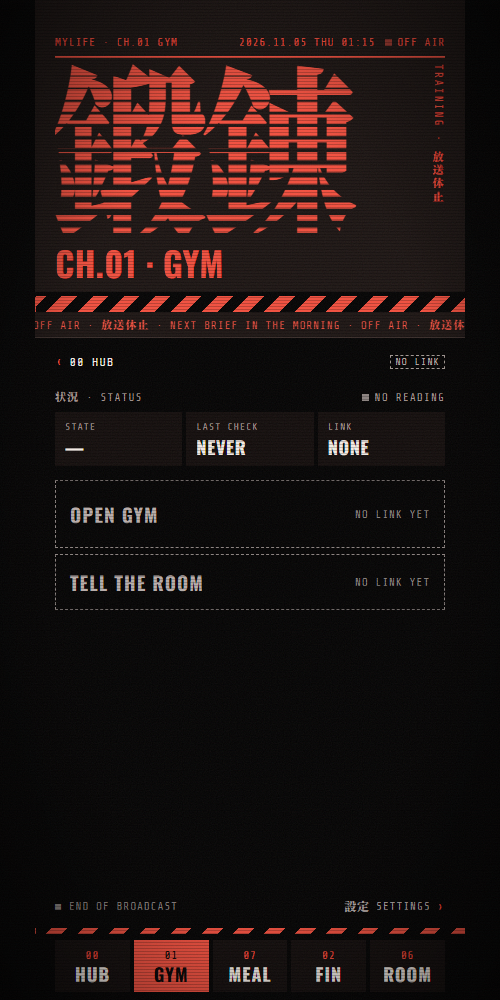
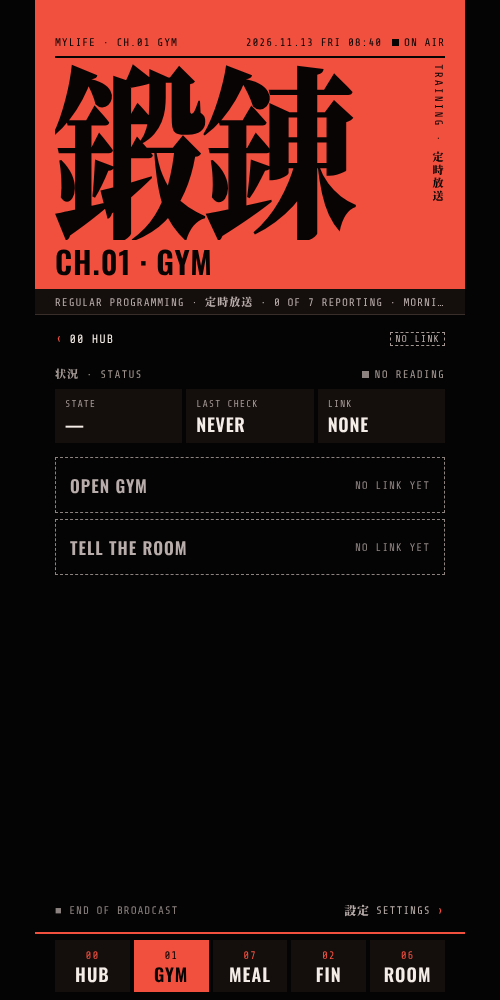
Calm Broadcast: MyLife in the Jellyfin r4 look
Keeps the red masthead and big kanji; drops scanline cuts, glitch, flicker,
CRT overlay, marching hazards and the scrolling ticker. Headings use
Bahnschrift 600 (Oswald 600 fallback), smaller buttons, quiet hover/press.
Settings loses the Effects switch since effects are retired.

Claude-Session: https://claude.ai/code/session_018cPyDwmiQEjk6EhzVvTr2t

diff --git a/mylife.css b/mylife.css
@@ -396,3 +396,52 @@ html.fx-off .v3 .ticker .track{animation:none}
 .v3 .pcard .pname{font-weight:700;font-size:19px;line-height:1.15;letter-spacing:.06em;text-transform:uppercase;min-width:0}
 .v3 .pcard .pk{font-size:12px;line-height:1;color:var(--text-3);white-space:nowrap}
 .v3 .pcard .pline{grid-column:2 / 4;margin:0;font-family:var(--f-display);font-weight:500;font-size:15px;line-height:1.4;letter-spacing:.01em;color:var(--text-2)}
+
+/* Calm Broadcast (2026-11-13): MyLife in the accepted Jellyfin r4 look. The red masthead and big kanji stay;
+   scanline slices, glitch, flicker, CRT overlay, marching hazards, the scrolling ticker and blinking dots go.
+   Headings use Bahnschrift 600 semi-condensed (Windows), falling back to Oswald 600 elsewhere. Hazard stripes
+   are kept for nothing on the hub (Jellyfin keeps them only on delete buttons). Appended only: delete this block
+   to get the v3 final look back. */
+:root{--f-head:Bahnschrift,'Oswald','Arial Narrow','Helvetica Neue',Arial,sans-serif}
+body{font-stretch:semi-condensed}
+
+/* Header: clean kanji (no scanline cuts), the hazard band under it becomes nothing; one still rule in the bar. */
+.v3 .mast .scan{display:none}
+.v3 .mast h1{font-weight:600;font-size:31px;letter-spacing:.03em}
+.mast + .hazard{display:none}
+.hazard.thin{height:2px;background:var(--accent);animation:none !important}
+
+/* Nothing moves or blinks: still on-air dot, still cursor, static ticker showing one pass of its words. */
+.v3 .mast .air .dot,.v3 .directive .blk{animation:none !important;opacity:1}
+.v3[data-mode="standby"] .mast .air .dot{opacity:.6}
+.v3 .ticker .track{display:block;flex:1 1 auto;animation:none !important;transform:none;min-width:0;padding:0 20px}
+.v3 .ticker .seg + .seg{display:none}
+.v3 .ticker .seg{display:block;white-space:nowrap;overflow:hidden;text-overflow:ellipsis}
+.v3 .mast .kanji::before,.v3 .mast .kanji::after{content:none}
+.screen.v3,.v3 .mast,.v3 .hazard{animation:none !important}
+.crt,.slice{display:none !important}
+
+/* Lighter headings: 600 instead of 700 everywhere the heading face is used. */
+.mast .app,.directive .l1,.directive .hero,.directive .done,.row .name,.tile .tname,.grow .gname,.readout .big,
+.readout .ident .gname,.btn,.pick .pname,.toggle-row .tname,.bar a .s,.v3 .chrow .gname,.v3 .cell .cv,.v3 .gdir .gt,
+.v3 .act .an,.v3 .dash .dn,.v3 .swatch .sn,.v3 .pcard .pname{font-weight:600}
+
+/* Jellyfin-size buttons and actions (r4: 44px+, 15-17px), not 68px slabs. */
+.btn{min-height:48px;font-size:17px}
+.btn.secondary{border-width:1px}
+.v3 .act{min-height:52px}
+.v3 .act .an{font-size:21px}
+.v3 .dash.big{min-height:56px}
+.v3 .dash .dn{font-size:17px}
+
+/* Quiet hover and press: no 10px edge growth, no scanline texture; the press is a darker row. */
+@media (hover:hover){
+  .v3 .tile:hover,.v3 a.row:hover,.v3 .chrow:hover{border-left-width:4px;padding-left:10px}
+  .v3 a.row:hover,.v3 .chrow:hover{padding-left:12px}
+  .v3 .tile.nolink:hover,.v3 .chrow.nolink:hover{border-left-width:1px;padding-left:13px}
+  .v3 .tile:hover .tname,.v3 a.row:hover .name,.v3 .chrow:hover .gname{color:var(--accent)}
+}
+.v3 .tile:active,.v3 a.row:active,.v3 .chrow:active{background-color:var(--surface-2);background-image:none;color:var(--text);border-left-color:var(--accent)}
+.v3 .tile:active *,.v3 a.row:active *,.v3 .chrow:active *{color:inherit !important}
+.v3 .tile:active .num,.v3 a.row:active .chev,.v3 .chrow:active .num,.v3 .chrow:active .chev{color:var(--accent) !important}
+.v3 .act:active{background-image:none;filter:brightness(.92)}

diff --git a/mylife.js b/mylife.js
@@ -64,8 +64,9 @@
   }
   function motionSetting() { return store('mylife.motion') === 'reduced'; }
   function reducedMotion() { return motionSetting() || deviceReduced(); }
-  /* v3 look: Effects (CRT overlay, kanji glitch, Slice, header pulse, hazard march, flicker) on unless set off. */
-  function effectsOn() { return store('mylife.effects') !== 'off'; }
+  /* Calm Broadcast (11-13): the v3 effects (CRT overlay, kanji glitch, Slice, pulse, hazard march, flicker) are
+     retired to match the Jellyfin r4 theme, so effects are always off and Settings no longer offers the switch. */
+  function effectsOn() { return false; }
   function motionClasses() {
     var c = document.documentElement.classList;
     if (reducedMotion()) c.add('rm'); else c.remove('rm');
@@ -482,7 +483,7 @@
   function settings(root, now, f, opts) {
     opts = opts || {};
     function paint(toast) {
-      var m = moodOf(now, f, opts), k = accentKey(), reduced = motionSetting(), dev = deviceReduced(), fx = effectsOn();
+      var m = moodOf(now, f, opts), k = accentKey(), reduced = motionSetting(), dev = deviceReduced();
       var picks = [['red', 'RED', 'DEFAULT'], ['orange', 'ORANGE', ''], ['gold', 'GOLD', '']].map(function (p) {
         return '<button type="button" class="swatch" role="radio" aria-checked="' + (k === p[0]) + '" data-accent="' + p[0] + '" style="--sw:' + ACCENTS[p[0]] + '" aria-label="' + p[1].toLowerCase() + ' accent' + (p[2] ? ', the default' : '') + '">' +
           '<span class="sn">' + p[1] + '</span><span class="sd mono">' + p[2] + '</span><span class="box" aria-hidden="true">' + (k === p[0] ? '✓' : '') + '</span></button>';
@@ -495,7 +496,6 @@
         '<div class="sect plain mono first"><span><span lang="ja">色</span> · ACCENT</span><span></span></div>' +
         '<div class="swatches" role="radiogroup" aria-label="Accent">' + picks + '</div>' +
         '<div class="sect plain mono"><span><span lang="ja">動き</span> · MOTION</span><span></span></div>' +
-        sw('effects', fx, 'EFFECTS', 'CRT, GLITCH, TICKER, SLICE') + '<div style="height:4px"></div>' +
         sw('motion', reduced, 'REDUCED MOTION', 'HOLDS EVERYTHING STILL') +
         (dev ? '<div class="mono" style="margin-top:6px;color:var(--text-2)">THIS DEVICE ASKS FOR REDUCED MOTION · MYLIFE IS ALREADY STILL</div>' : '') +
         '<div class="sect plain mono"><span><span lang="ja">画面</span> · HOME SCREEN</span><span></span></div>' +
@@ -512,9 +512,6 @@
       });
       root.querySelector('#motion').addEventListener('click', function () {
         store('mylife.motion', motionSetting() ? 'full' : 'reduced'); paint(false); root.querySelector('#motion').focus();
-      });
-      root.querySelector('#effects').addEventListener('click', function () {
-        store('mylife.effects', effectsOn() ? 'off' : 'on'); paint(false); root.querySelector('#effects').focus();
       });
     }
     paint(false);

diff --git a/README.md b/README.md
@@ -3,7 +3,7 @@
 A phone home screen for a self-hosted home lab, styled like a late-night TV broadcast. One page shows today's one next step, a tile for every app in the house, and a channel guide that says which apps are reachable. It is plain HTML, CSS and JavaScript, so it opens straight from a file with no server, no build step and no framework.
 
 <p>
-  <img src="screenshots/index.png" width="240" alt="Home screen, standing by at night">
+  <img src="screenshots/index.png" width="240" alt="Home screen">
   <img src="screenshots/guide.png" width="240" alt="Channel guide">
   <img src="screenshots/channel.png" width="240" alt="One channel page">
   <img src="screenshots/projects.png" width="240" alt="Project board">
@@ -15,7 +15,7 @@ A phone home screen for a self-hosted home lab, styled like a late-night TV broa
 - **Channel Guide.** Every channel gets a row with its state (OK, STALE, OFFLINE or NO READING) and the time of its last check.
 - **Channel pages** (`signal.html?ch=01` and so on). Each page has its status and an **OPEN** button for that app.
 - **Project Board.** One plain-English line per project.
-- **Settings.** You can pick the accent colour (red, orange or gold) and turn motion and the CRT effects on or off. These settings stay in the browser's `localStorage`.
+- **Settings.** You can pick the accent colour (red, orange or gold) and turn reduced motion on or off. These settings stay in the browser's `localStorage`.
 - **The hub is honest about what it doesn't know.** It fetches nothing, posts nothing and probes nothing. A tile shows a state only when a status file (`feed.js`) supplies one with a source and a check time. If that file is missing, older than 24 hours or can't be verified, every tile reads UNKNOWN instead of guessing.
 
 ## How to run it
